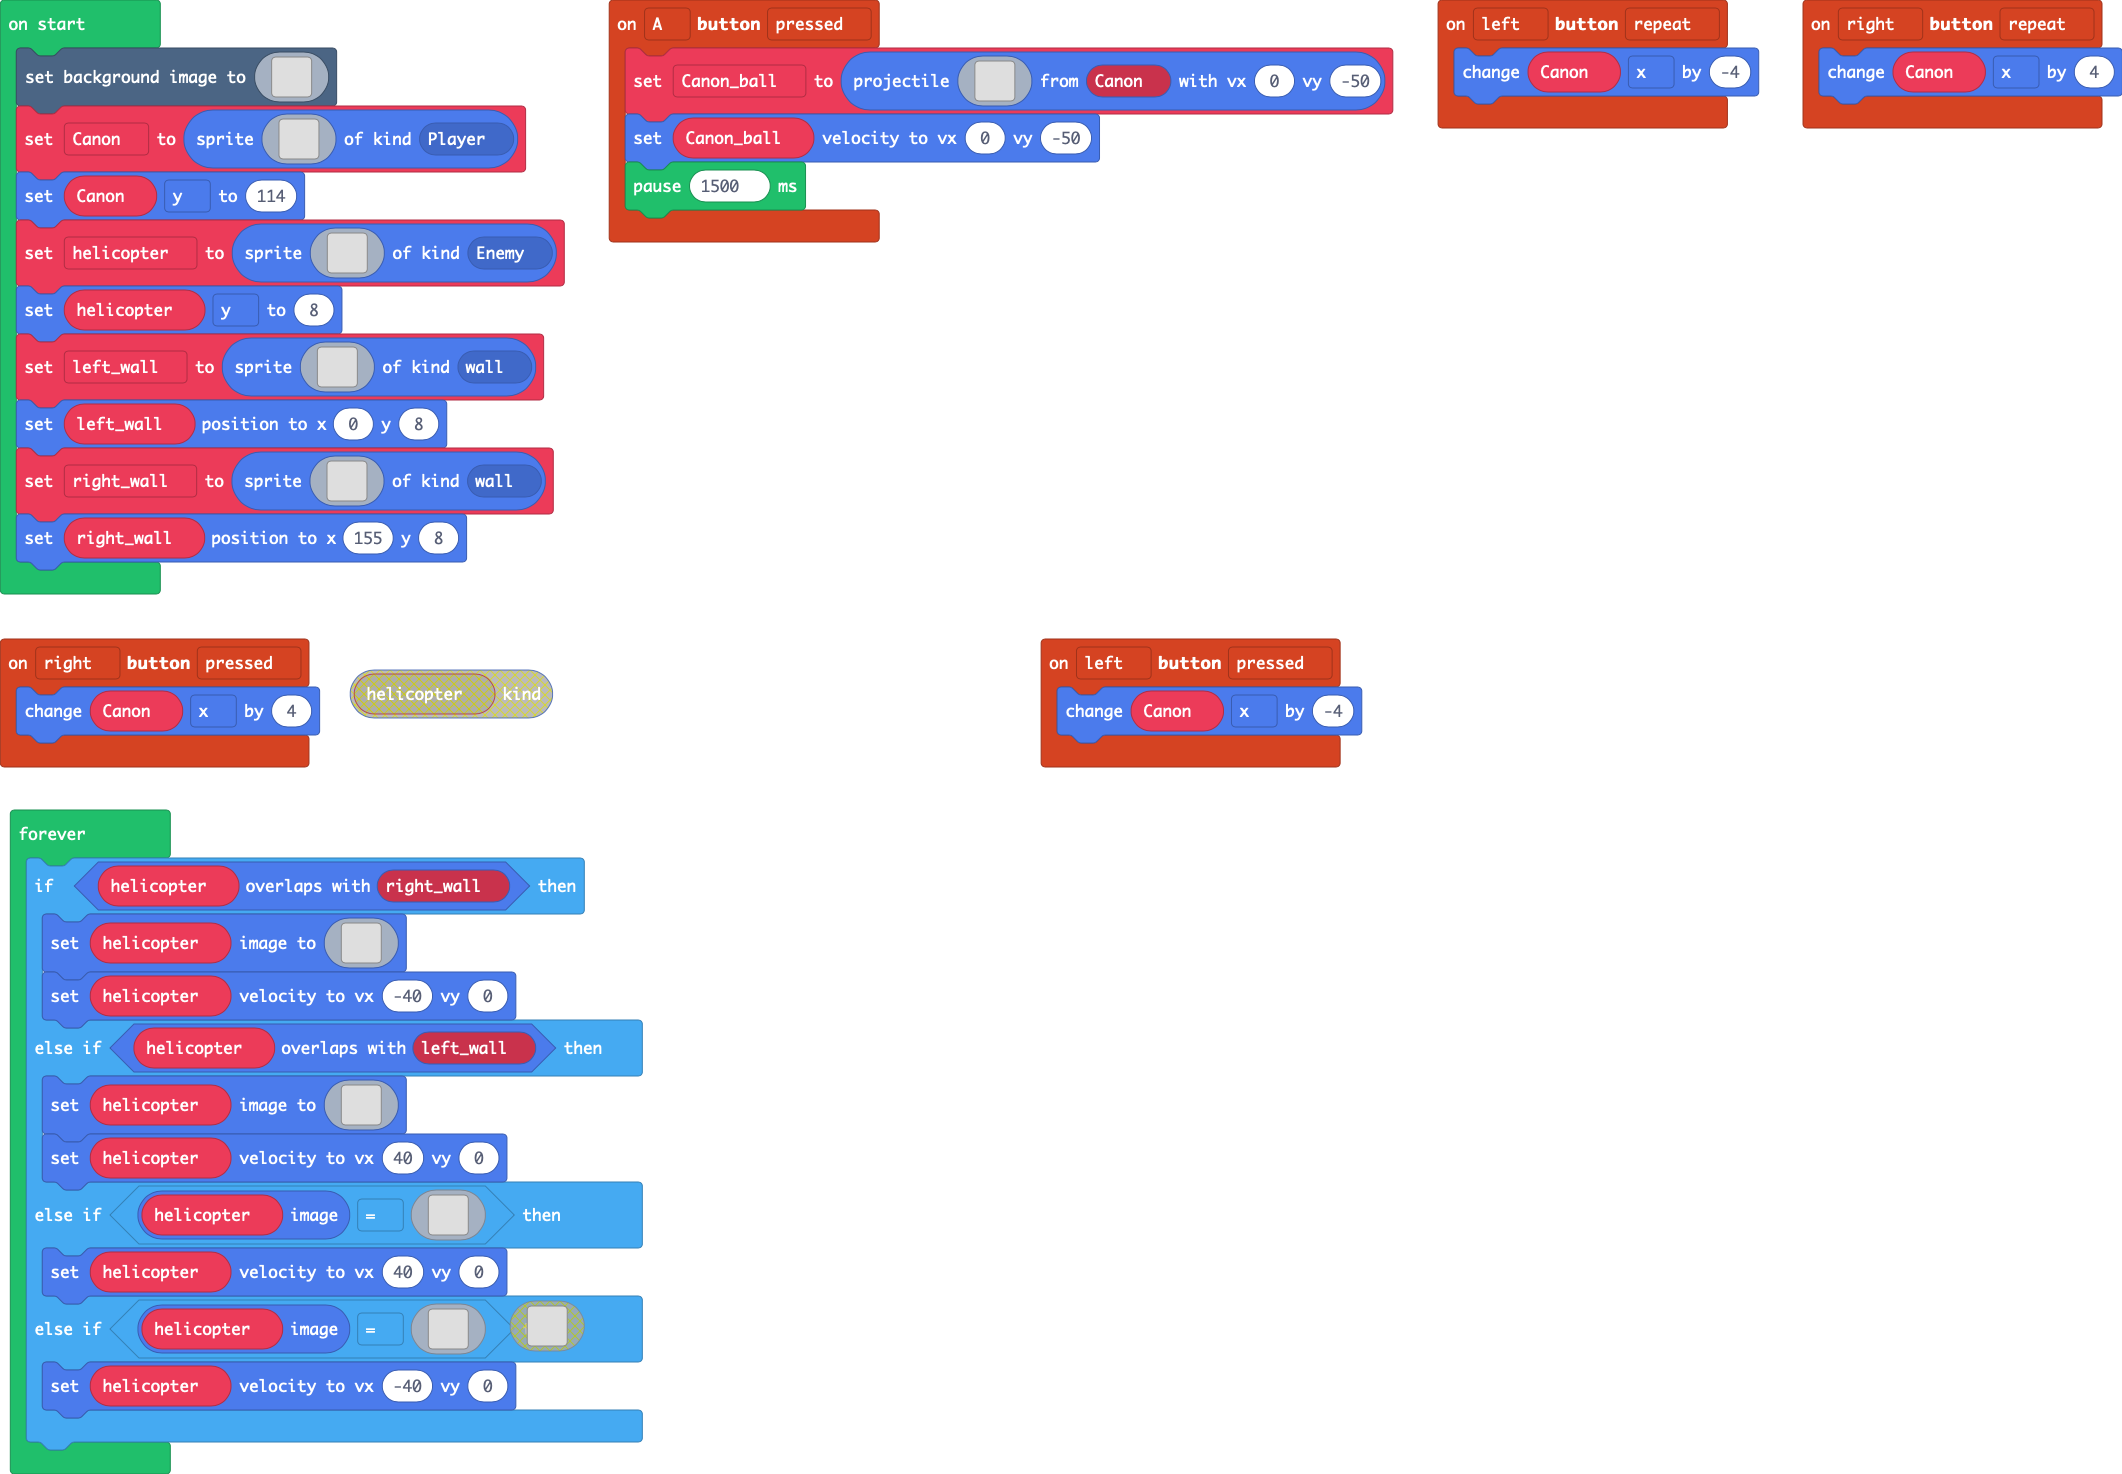
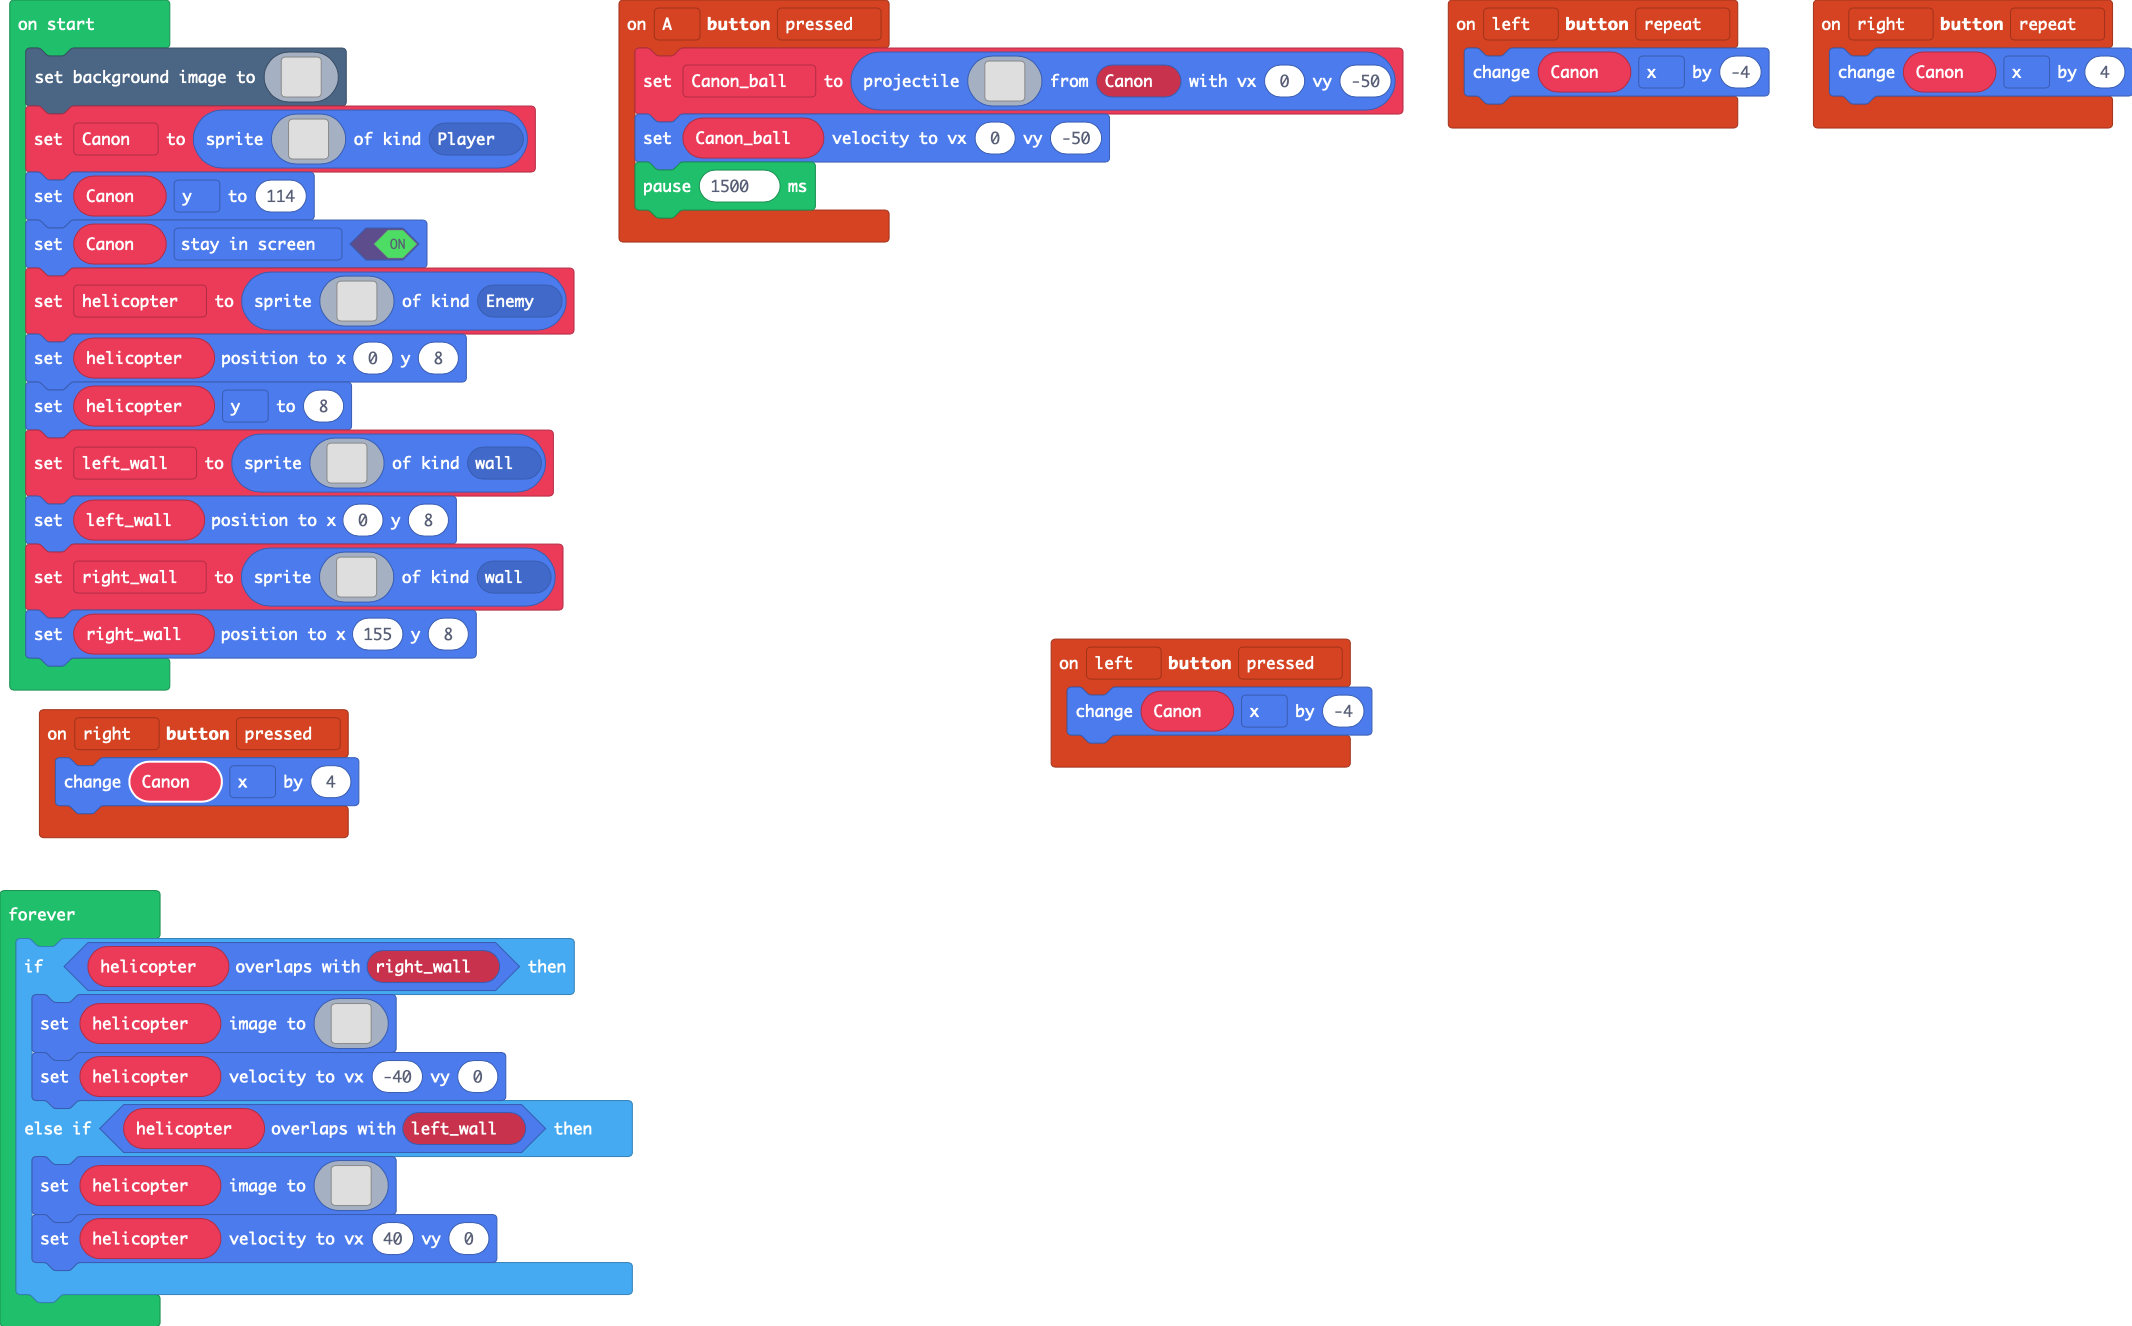
I fixed the helicopter bug

Changed region(s): [[0.0, 0.0, 1.0, 1.0], [0.4665, 0.4329, 0.6532, 0.5875]]

diff --git a/main.ts b/main.ts
@@ -199,6 +199,7 @@ Canon = sprites.create(img`
 . . f f f f f f f f f f f f . . 
 `, SpriteKind.Player)
 Canon.y = 114
+Canon.setFlag(SpriteFlag.StayInScreen, true)
 let helicopter = sprites.create(img`
 . . . . . . . . . . . . . . . . 
 . . . . . . . . . . . . . . . . 
@@ -217,6 +218,7 @@ f . f . f f f f f f f f f f f f
 . . . . . . . . . . . . . . . . 
 . . . . . . . . . . . . . . . . 
 `, SpriteKind.Enemy)
+helicopter.setPosition(0, 8)
 helicopter.y = 8
 let left_wall = sprites.create(img`
 3 . . . . . . . . . . . . . . . 
@@ -297,43 +299,5 @@ f . f . f f f f f f f f f f f f
 . . . . . . . . . . . . . . . . 
 `)
         helicopter.setVelocity(40, 0)
-    } else if (helicopter.image == img`
-. . . . . . . . . . . . . . . . 
-. . . . . . . . . . . . . . . . 
-. . . . . . . . . . . . . . . . 
-. . f f f f f f f f f f f f f f 
-. . . . . . . . f f f . . . . . 
-. . . . . . f f f f f f 8 8 . . 
-f . f . . f f f f f f f 8 8 8 . 
-. f f f f f f f f f f f 8 8 8 8 
-f . f . f f f f f f f f f f f f 
-. . . . . f f f f f f f f f f . 
-. . . . . . f f f f f f f f . . 
-. . . . . . . f . . . . f . . . 
-. . . . f f . f . . . . f . f f 
-. . . . . f f f f f f f f f f . 
-. . . . . . . . . . . . . . . . 
-. . . . . . . . . . . . . . . . 
-`) {
-        helicopter.setVelocity(40, 0)
-    } else if (helicopter.image == img`
-. . . . . . . . . . . . . . . . 
-. . . . . . . . . . . . . . . . 
-. . . . . . . . . . . . . . . . 
-f f f f f f f f f f f f f f . . 
-. . . . . f f f . . . . . . . . 
-. . 8 f f f f f f f . . . . . . 
-. 8 8 f f f f f f f f . . f . f 
-8 8 8 f f f f f f f f f f f f . 
-f f f f f f f f f f f f . f . f 
-. f f f f f f f f f f . . . . . 
-. . f f f f f f f f . . . . . . 
-. . . f . . . . f . . . . . . . 
-f f . f . . . . f . f f . . . . 
-. f f f f f f f f f f . . . . . 
-. . . . . . . . . . . . . . . . 
-. . . . . . . . . . . . . . . . 
-`) {
-        helicopter.setVelocity(-40, 0)
     }
 })
